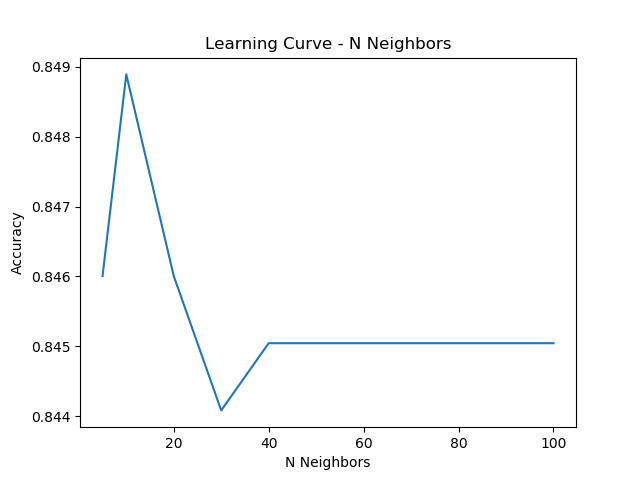
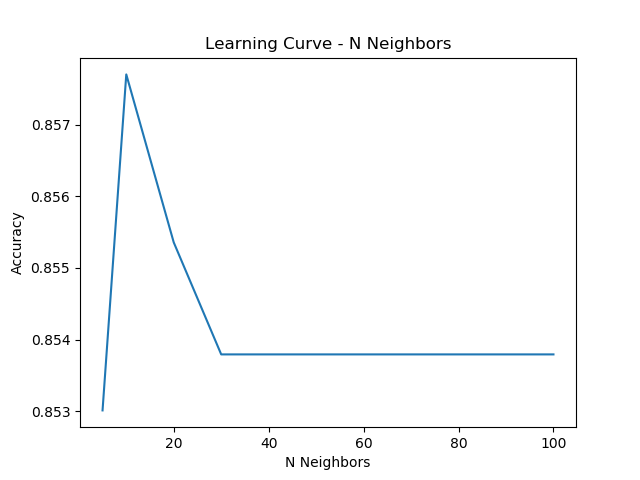
Adding a comparison between the validation and test sets for parameters

diff --git a/solution/classifiers/helpers.py b/solution/classifiers/helpers.py
@@ -9,7 +9,7 @@ sys.path.append(os.path.dirname(os.path.dirname(os.path.dirname(os.path.realpath
 import numpy as np
 import graphviz
 from sklearn.model_selection import cross_val_score
-from sklearn.metrics import confusion_matrix, classification_report
+from sklearn.metrics import confusion_matrix, classification_report, accuracy_score
 from sklearn.tree import export_graphviz
 from sklearn.model_selection import GridSearchCV
 from sklearn.model_selection import learning_curve
@@ -102,7 +102,7 @@ def plot_learning_curve_vs_train_size(classifier, dataframe, feature_cols, targe
 
 @timer
 def plot_learning_curve_vs_param(classifier, x_train, y_train, param_grid={}, param_name='Depth',
-                                 param_range=list(range(3, 16)), cv=5,
+                                 param_range=list(range(3, 16)), cv=5, measure_graph_label='Accuracy',
                                  measure_type='mean_test_score', output_location=''):
     grid_search = GridSearchCV(
         estimator=classifier,
@@ -115,8 +115,44 @@ def plot_learning_curve_vs_param(classifier, x_train, y_train, param_grid={}, pa
     plt.figure()
     plt.title("Learning Curve - %s" % param_name)
     plt.xlabel(param_name)
-    plt.ylabel("Accuracy")
+    plt.ylabel(measure_graph_label)
     plt.plot(param_range, grid_search.cv_results_[measure_type])
+    plt.savefig(output_location)
+
+
+@timer
+def plot_learning_curve_vs_param_train_and_test(
+        classifier, x_train, y_train, param_grid={}, param_name='Depth',
+        param_range=list(range(3, 16)), cv=5, measure_type='mean_test_score',
+        measure_graph_label='Accuracy', output_location='', x_test=None, y_test=None):
+    grid_search = GridSearchCV(
+        estimator=classifier,
+        param_grid=param_grid,
+        cv=cv
+    )
+
+    grid_search.fit(x_train, y_train)
+
+    plt.figure()
+    plt.title("Learning Curve - %s" % param_name)
+    plt.xlabel(param_name)
+    plt.ylabel(measure_graph_label)
+    plt.plot(param_range, grid_search.cv_results_[measure_type], label='Validation')
+
+    if x_test is not None and y_test is not None:
+        scores = []
+        for param, values in param_grid.items():
+            base_kwargs = classifier.get_params()
+            for val in values:
+                base_kwargs[param] = val
+                predictor = classifier.set_params(**base_kwargs)
+                predictor.fit(x_train, y_train)
+                y_pred = predictor.predict(x_test)
+                scores.append(accuracy_score(y_test, y_pred))
+                del base_kwargs[param]
+            break
+        plt.plot(param_range, scores, label='Test')
+    plt.legend(loc='best')
     plt.savefig(output_location)
 
 

diff --git a/solution/classifiers/census_svm.py b/solution/classifiers/census_svm.py
@@ -19,6 +19,9 @@ from sklearn.svm import SVC
 from solution.classifiers import helpers
 from solution.preprocessors.data_loader import CensusDataLoader
 
+import warnings  # ignore future warnings
+warnings.simplefilter(action='ignore', category=FutureWarning)
+
 RUN_PATH = os.path.dirname(os.path.dirname(os.path.realpath(__file__)))
 DATA_PATH = os.path.join(RUN_PATH, "data")
 CSV_FILENAME = "raw_census_data.csv"
@@ -26,10 +29,6 @@ CSV_FILENAME = "raw_census_data.csv"
 df = pd.read_csv(os.path.join(DATA_PATH, CSV_FILENAME))
 df = CensusDataLoader(df).apply_pipeline()
 
-# These are subject to change based on pre-processing
-# feature_cols = ['age_num', 'education-num', 'marital-status_Single',
-#                 'hours-per-week', 'capital-gain',
-#                 'capital-loss']
 feature_cols = ['age_num', 'education-num', 'marital-status_Single',
                 'hours-per-week', 'capital-gain',
                 'capital-loss', 'sex_Male', 'from_united_states']
@@ -55,25 +54,27 @@ x_train, x_test, y_train, y_test = train_test_split(
 )
 
 # Plot the learning curve for max iter vs mean test score
-helpers.plot_learning_curve_vs_param(
+helpers.plot_learning_curve_vs_param_train_and_test(
     SVC(),
     x_train,
     y_train,
     param_grid={
-        'degree': [2, 3, 4, 5, 6],
+        'max_iter': [100, 500, 1000, 1500, 2000, 3000, 4000, 5000],
     },
+    x_test=x_test,
+    y_test=y_test,
     cv=5,
-    param_name='Degree',
-    param_range=[2, 3, 4, 5, 6],
+    param_name='Max Iterations',
+    param_range=[100, 500, 1000, 1500, 2000, 3000, 4000, 5000],
     measure_type='mean_test_score',
-    output_location='census_output/svm_degree_learning_curve.png'
+    output_location='census_output/svm_max_iter_learning_curve.png'
 )
 
 # Find the best model via GridSearchCV
 grid_search = GridSearchCV(
     estimator=SVC(),
     param_grid={
-        'degree': [2, 3, 4, 5, 6],
+        'max_iter': [100, 500, 1000, 1500, 2000, 3000, 4000, 5000],
     },
     cv=5
 )
@@ -102,5 +103,6 @@ helpers.produce_model_performance_summary(
     y_pred,
     output_location='census_output/svm_summary.txt',
     cv=kfold,
-    scoring='accuracy'
+    scoring='accuracy',
+    grid_search=grid_search
 )

diff --git a/solution/classifiers/census_boosting.py b/solution/classifiers/census_boosting.py
@@ -26,10 +26,6 @@ CSV_FILENAME = "raw_census_data.csv"
 df = pd.read_csv(os.path.join(DATA_PATH, CSV_FILENAME))
 df = CensusDataLoader(df).apply_pipeline()
 
-# These are subject to change based on pre-processing
-# feature_cols = ['age_num', 'education-num', 'marital-status_Single',
-#                 'hours-per-week', 'capital-gain',
-#                 'capital-loss']
 feature_cols = ['age_num', 'education-num', 'marital-status_Single',
                 'hours-per-week', 'capital-gain',
                 'capital-loss', 'sex_Male', 'from_united_states']
@@ -55,16 +51,18 @@ x_train, x_test, y_train, y_test = train_test_split(
 )
 
 # Plot the learning curve for max iter vs mean test score
-helpers.plot_learning_curve_vs_param(
+helpers.plot_learning_curve_vs_param_train_and_test(
     AdaBoostClassifier(),
     x_train,
     y_train,
+    x_test=x_test,
+    y_test=y_test,
     param_grid={
-        'n_estimators': [10, 20, 30, 40, 50, 60, 70, 80, 90, 100],
+        'n_estimators': range(10, 310, 10),
     },
     cv=5,
     param_name='N Estimators',
-    param_range=[10, 20, 30, 40, 50, 60, 70, 80, 90, 100],
+    param_range=list(range(10, 310, 10)),
     measure_type='mean_test_score',
     output_location='census_output/boost_n_estimators_learning_curve.png'
 )
@@ -73,7 +71,7 @@ helpers.plot_learning_curve_vs_param(
 grid_search = GridSearchCV(
     estimator=AdaBoostClassifier(),
     param_grid={
-        'n_estimators': [10, 20, 30, 40, 50, 60, 70, 80, 90, 100],
+        'n_estimators': range(10, 310, 10),
     },
     cv=5
 )
@@ -100,6 +98,7 @@ helpers.produce_model_performance_summary(
     x_test,
     y_test,
     y_pred,
+    grid_search=grid_search,
     output_location='census_output/boost_summary.txt',
     cv=kfold,
     scoring='accuracy'

diff --git a/solution/classifiers/wine_svm.py b/solution/classifiers/wine_svm.py
@@ -14,6 +14,9 @@ from sklearn.svm import SVC
 from solution.classifiers import helpers
 from solution.preprocessors.data_loader import WineDataLoader
 
+import warnings  # ignore future warnings
+warnings.simplefilter(action='ignore', category=FutureWarning)
+
 RUN_PATH = os.path.dirname(os.path.dirname(os.path.realpath(__file__)))
 DATA_PATH = os.path.join(RUN_PATH, "data")
 CSV_FILENAME = "winequality-red.csv"
@@ -42,29 +45,31 @@ x_train, x_test, y_train, y_test = train_test_split(
     df[feature_cols],
     df['quality_num'],
     random_state=0,
-    test_size=0.35
+    test_size=0.2
 )
 
 # Plot the learning curve for max iter vs mean test score
-helpers.plot_learning_curve_vs_param(
+helpers.plot_learning_curve_vs_param_train_and_test(
     SVC(),
     x_train,
     y_train,
     param_grid={
-        'degree': [2, 3, 4, 5, 6],
+        'max_iter': range(50, 650, 50),
     },
+    x_test=x_test,
+    y_test=y_test,
     cv=3,
-    param_name='Degree',
-    param_range=[2, 3, 4, 5, 6],
+    param_name='Max Iterations',
+    param_range=list(range(50, 650, 50)),
     measure_type='mean_test_score',
-    output_location='wine_output/svm_degree_learning_curve.png'
+    output_location='wine_output/svm_max_iter_learning_curve.png'
 )
 
 # Find the best model via GridSearchCV
 grid_search = GridSearchCV(
     estimator=SVC(),
     param_grid={
-        'degree': [2, 3, 4, 5, 6],
+        'max_iter': range(50, 650, 50),
     },
     cv=3
 )

diff --git a/solution/classifiers/census_decision_tree.py b/solution/classifiers/census_decision_tree.py
@@ -67,7 +67,7 @@ helpers.plot_learning_curve_vs_train_size(
     df,
     feature_cols,
     'income_num',
-    output_location='census_output/num_samples_learning_curve.png'
+    output_location='census_output/dt_num_samples_learning_curve.png'
 )
 
 x_train, x_test, y_train, y_test = train_test_split(
@@ -89,7 +89,7 @@ helpers.plot_learning_curve_vs_param(
     },
     cv=5,
     measure_type='mean_test_score',
-    output_location='census_output/depth_learning_curve.png',
+    output_location='census_output/dt_depth_learning_curve.png',
     param_range=list(range(3, 40))
 )
 
@@ -106,7 +106,7 @@ helpers.plot_learning_curve_vs_param(
     measure_type='mean_test_score',
     output_location='census_output/dt_leaf_nodes_learning_curve.png',
     param_range=list(range(5, 100)),
-    param_name='Max Leaf Nodes'
+    param_name='Max Leaf Nodes',
 )
 
 # Find the best model via GridSearchCV
@@ -162,7 +162,7 @@ helpers.plot_learning_curve_vs_train_size(
     df,
     feature_cols,
     'income_num',
-    output_location='census_output/best_model_num_samples_learning_curve.png',
+    output_location='census_output/dt_best_model_num_samples_learning_curve.png',
     lin_space=np.linspace(0.1, 1.0, num=50)
 )
 

diff --git a/solution/classifiers/wine_neural_network.py b/solution/classifiers/wine_neural_network.py
@@ -48,11 +48,11 @@ x_train, x_test, y_train, y_test = train_test_split(
     df[feature_cols],
     df['quality_num'],
     random_state=0,
-    test_size=0.35
+    test_size=0.2
 )
 
 # Plot the learning curve for max iter vs mean test score
-helpers.plot_learning_curve_vs_param(
+helpers.plot_learning_curve_vs_param_train_and_test(
     MLPClassifier(
         solver='sgd',
         alpha=1e-6,
@@ -61,6 +61,8 @@ helpers.plot_learning_curve_vs_param(
         activation='logistic'),
     x_train,
     y_train,
+    x_test=x_test,
+    y_test=y_test,
     param_grid={
         'max_iter': range(100, 1100, 100),
     },

diff --git a/solution/classifiers/census_neural_network.py b/solution/classifiers/census_neural_network.py
@@ -61,7 +61,7 @@ x_train, x_test, y_train, y_test = train_test_split(
 )
 
 # Plot the learning curve for max iter vs mean test score
-helpers.plot_learning_curve_vs_param(
+helpers.plot_learning_curve_vs_param_train_and_test(
     MLPClassifier(
         solver='sgd',
         alpha=1e-3,
@@ -70,6 +70,8 @@ helpers.plot_learning_curve_vs_param(
         activation='logistic'),
     x_train,
     y_train,
+    x_test=x_test,
+    y_test=y_test,
     param_grid={
         'max_iter': range(100, 1100, 100),
     },

diff --git a/solution/classifiers/wine_boosting.py b/solution/classifiers/wine_boosting.py
@@ -42,7 +42,7 @@ x_train, x_test, y_train, y_test = train_test_split(
     df[feature_cols],
     df['quality_num'],
     random_state=0,
-    test_size=0.35
+    test_size=0.2
 )
 
 # Plot the learning curve for max iter vs mean test score

diff --git a/solution/classifiers/wine_knn.py b/solution/classifiers/wine_knn.py
@@ -42,7 +42,7 @@ x_train, x_test, y_train, y_test = train_test_split(
     df[feature_cols],
     df['quality_num'],
     random_state=0,
-    test_size=0.35
+    test_size=0.2
 )
 
 # Plot the learning curve for max iter vs mean test score
